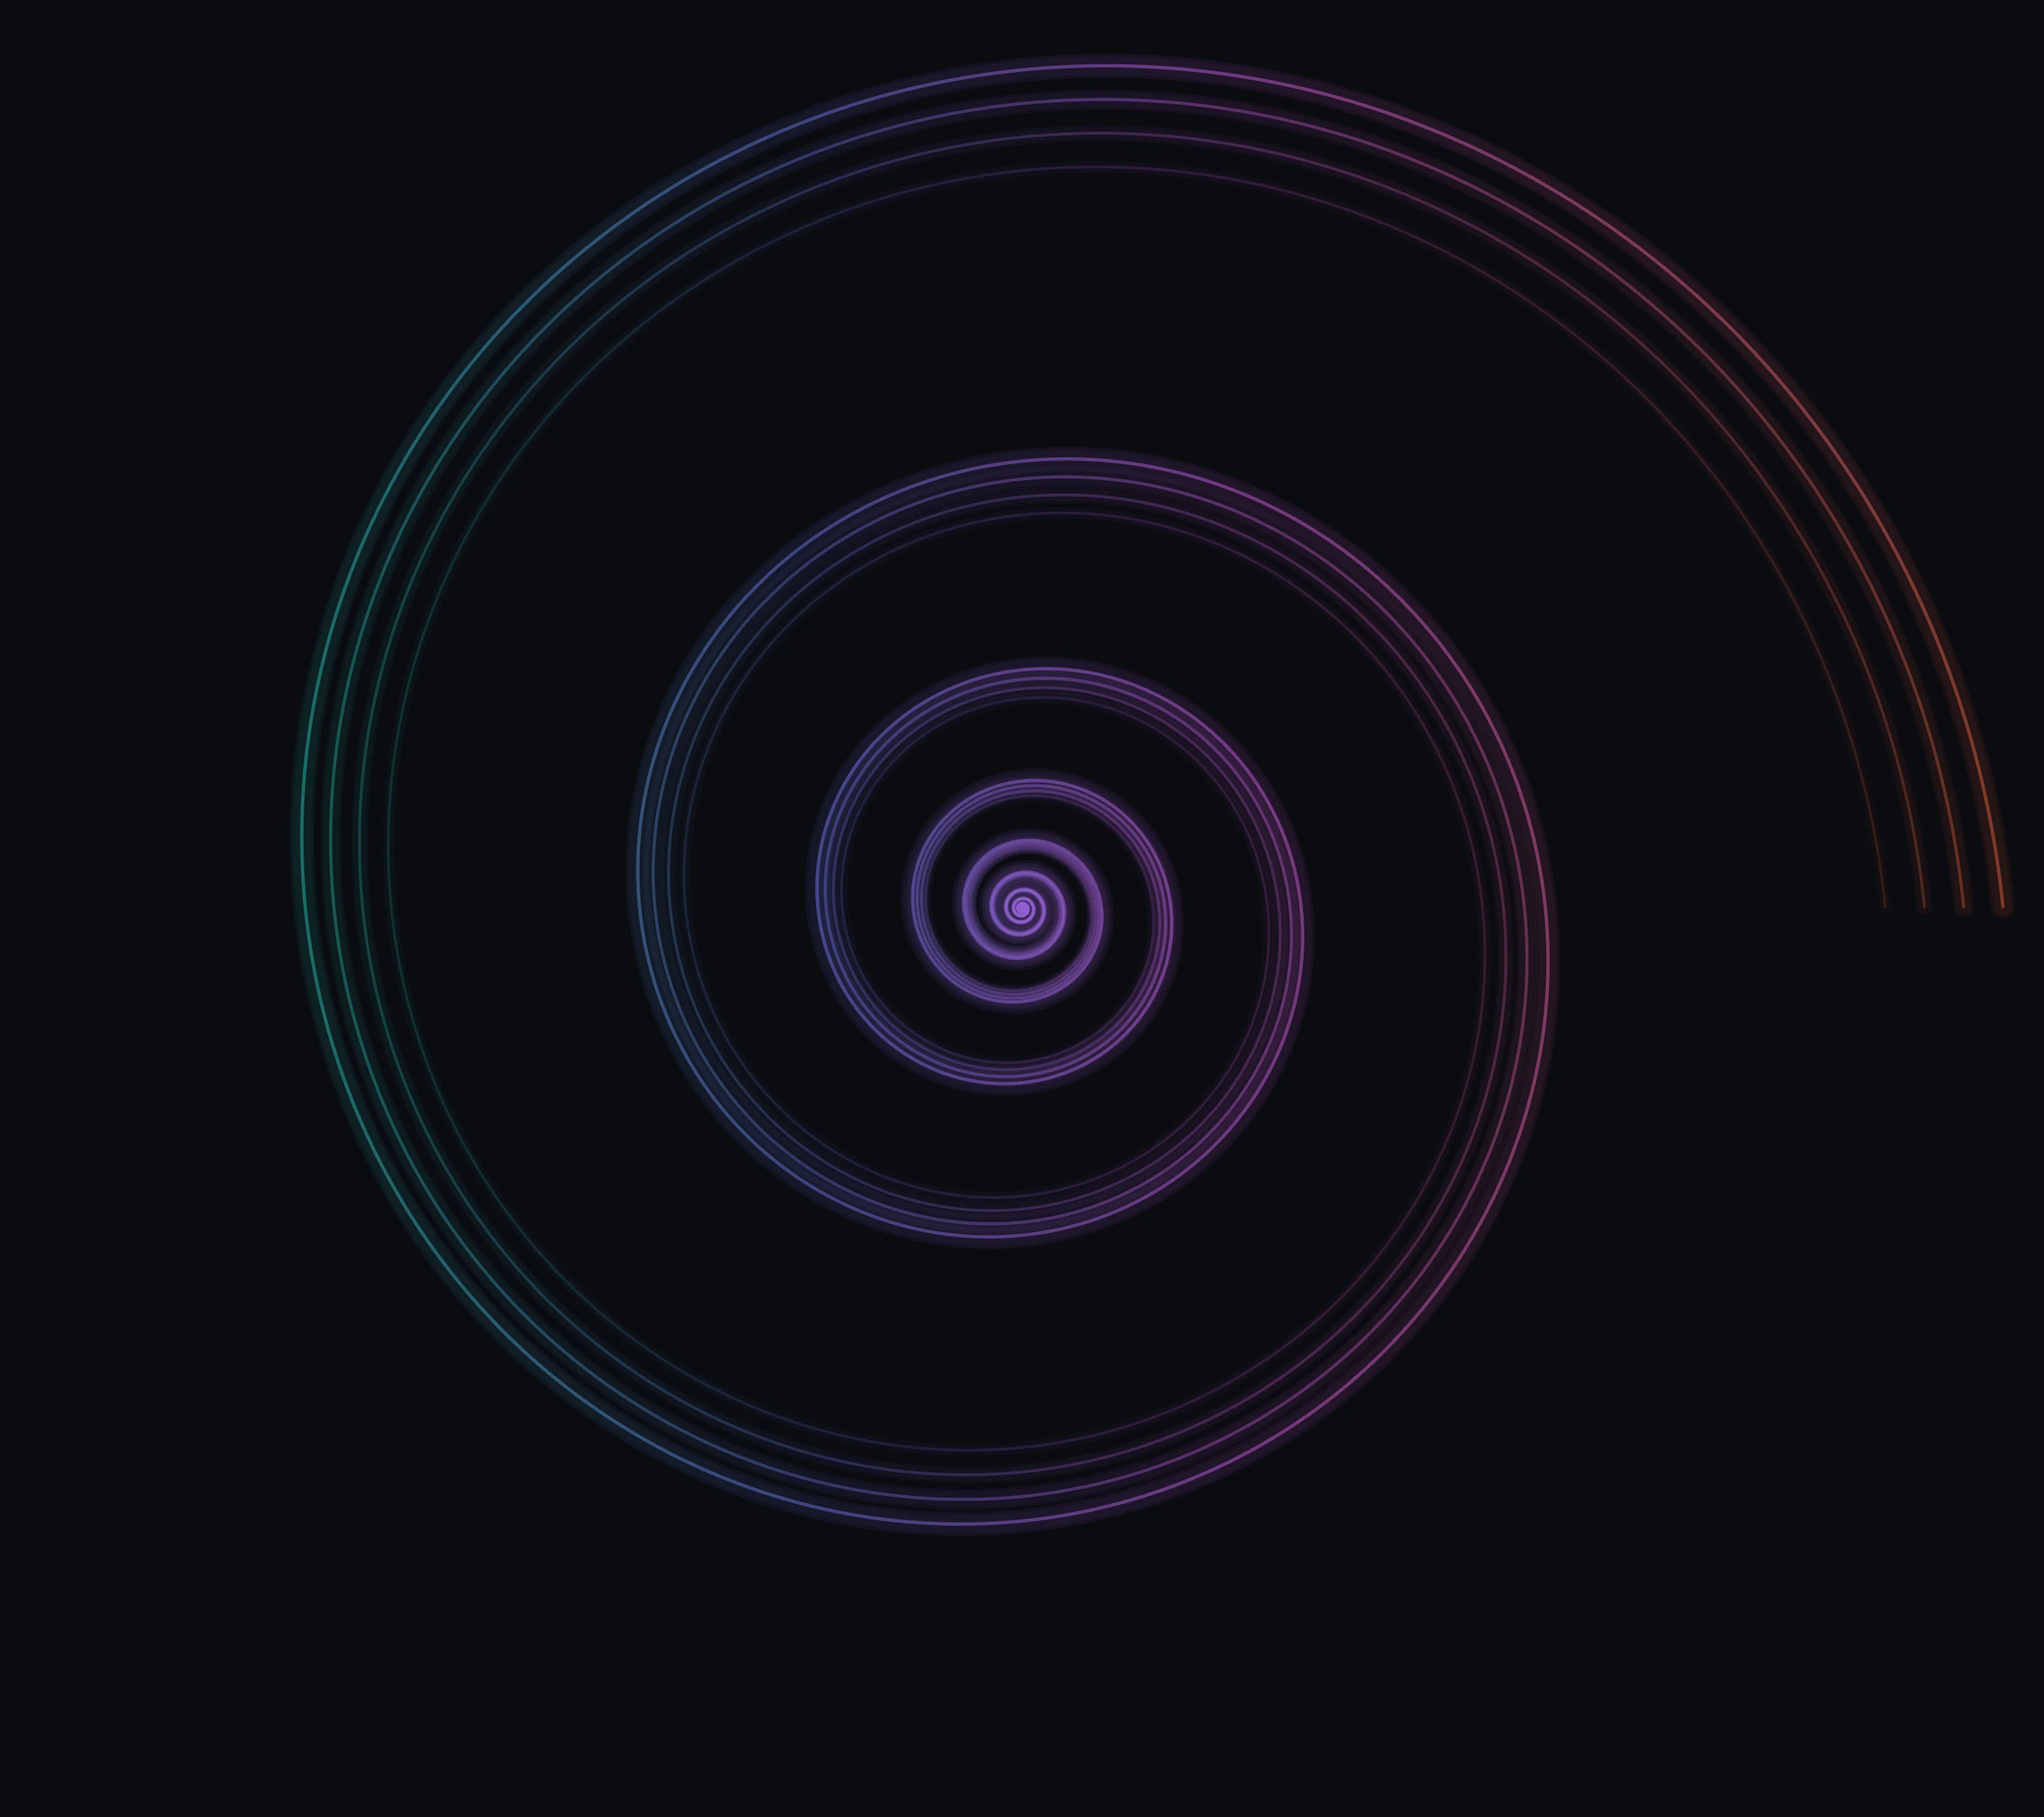
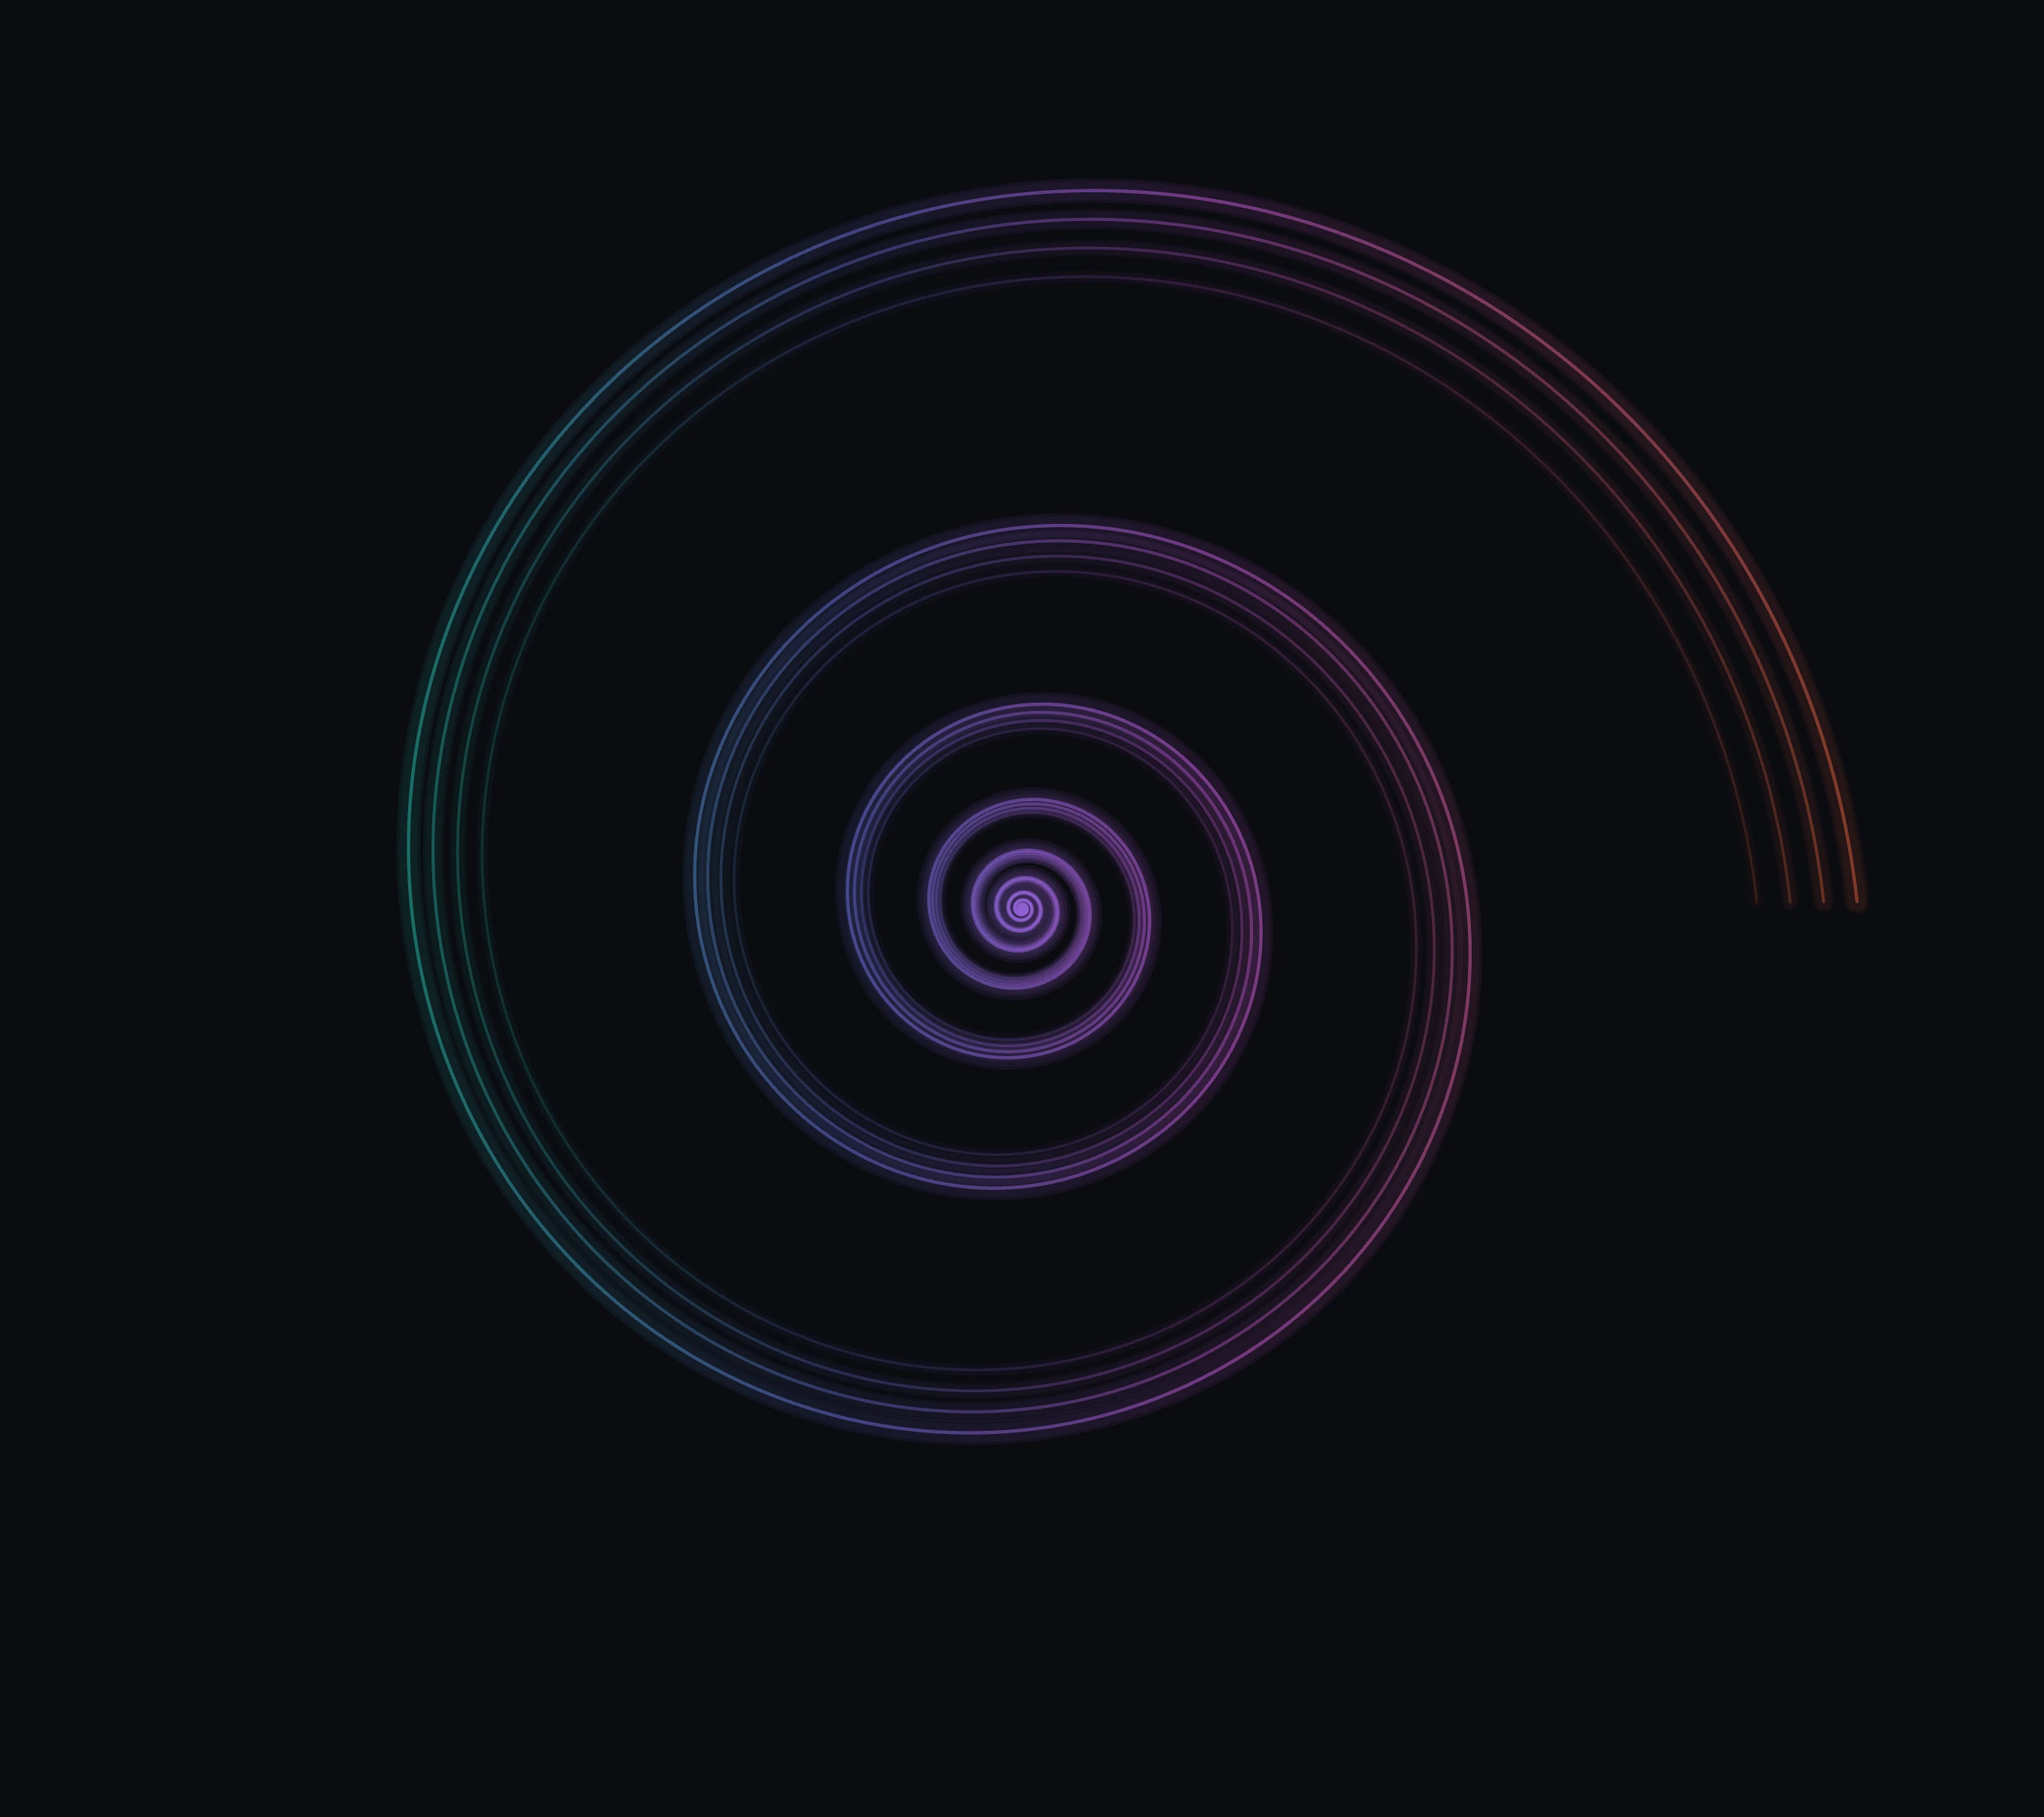
chore(assets): increase mobile spiral bleed to ~25% and cache-bust image-set references

Changed region(s): [[0.1556, 0.0312, 0.9956, 0.8438]]

diff --git a/app/components/SpiralBackground.tsx b/app/components/SpiralBackground.tsx
@@ -110,7 +110,8 @@ export default function SpiralBackground() {
 
   // Mobile: simple rotating full-screen background using pre-rendered assets
   if (isMobile) {
-    const bg = `-webkit-image-set(url(/spiral-mobile-2000.webp) 2x, url(/spiral-mobile-1600.webp) 1.5x, url(/spiral-mobile-1200.webp) 1x)`;
+    const v = Date.now().toString().slice(-6); // simple cache buster
+    const bg = `-webkit-image-set(url(/spiral-mobile-2000.webp?v=${v}) 2x, url(/spiral-mobile-1600.webp?v=${v}) 1.5x, url(/spiral-mobile-1200.webp?v=${v}) 1x)`;
     return (
       <div
         className="absolute inset-0 z-0"

diff --git a/scripts/generate-mobile-spiral.js b/scripts/generate-mobile-spiral.js
@@ -41,8 +41,8 @@ function svgMarkup(width, height) {
   const cy = height / 2;
   const totalTheta = Math.PI * 2 * SPIRAL.turns;
   const baseRadius = SPIRAL.a * Math.exp(SPIRAL.b * totalTheta);
-  // Add ~15% extra margin around the spiral for mobile rotation bleed
-  const fit = 0.54;
+  // Increase bleed: ~25% more margin than original (0.62 * 0.75 ≈ 0.46)
+  const fit = 0.46;
   const pixelScale = (Math.min(width, height) * fit) / baseRadius;
   const gradientStops = COLOR_STOPS.map((s) => `<stop offset="${s.stop * 100}%" stop-color="${s.color}" />`).join('');
 
